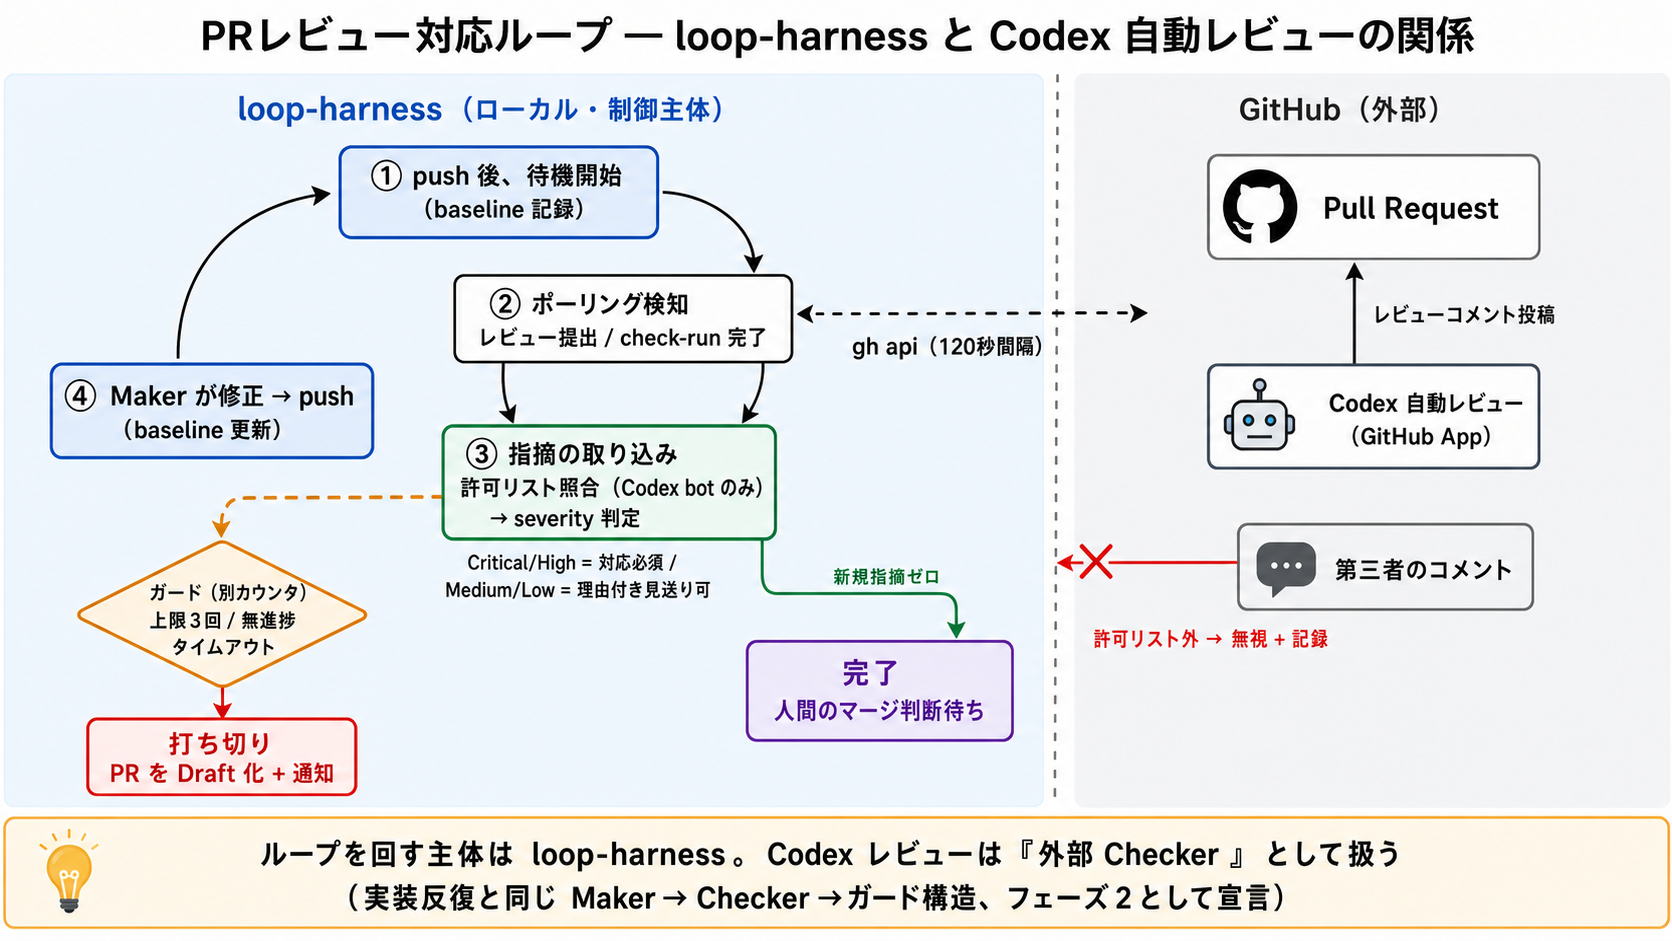
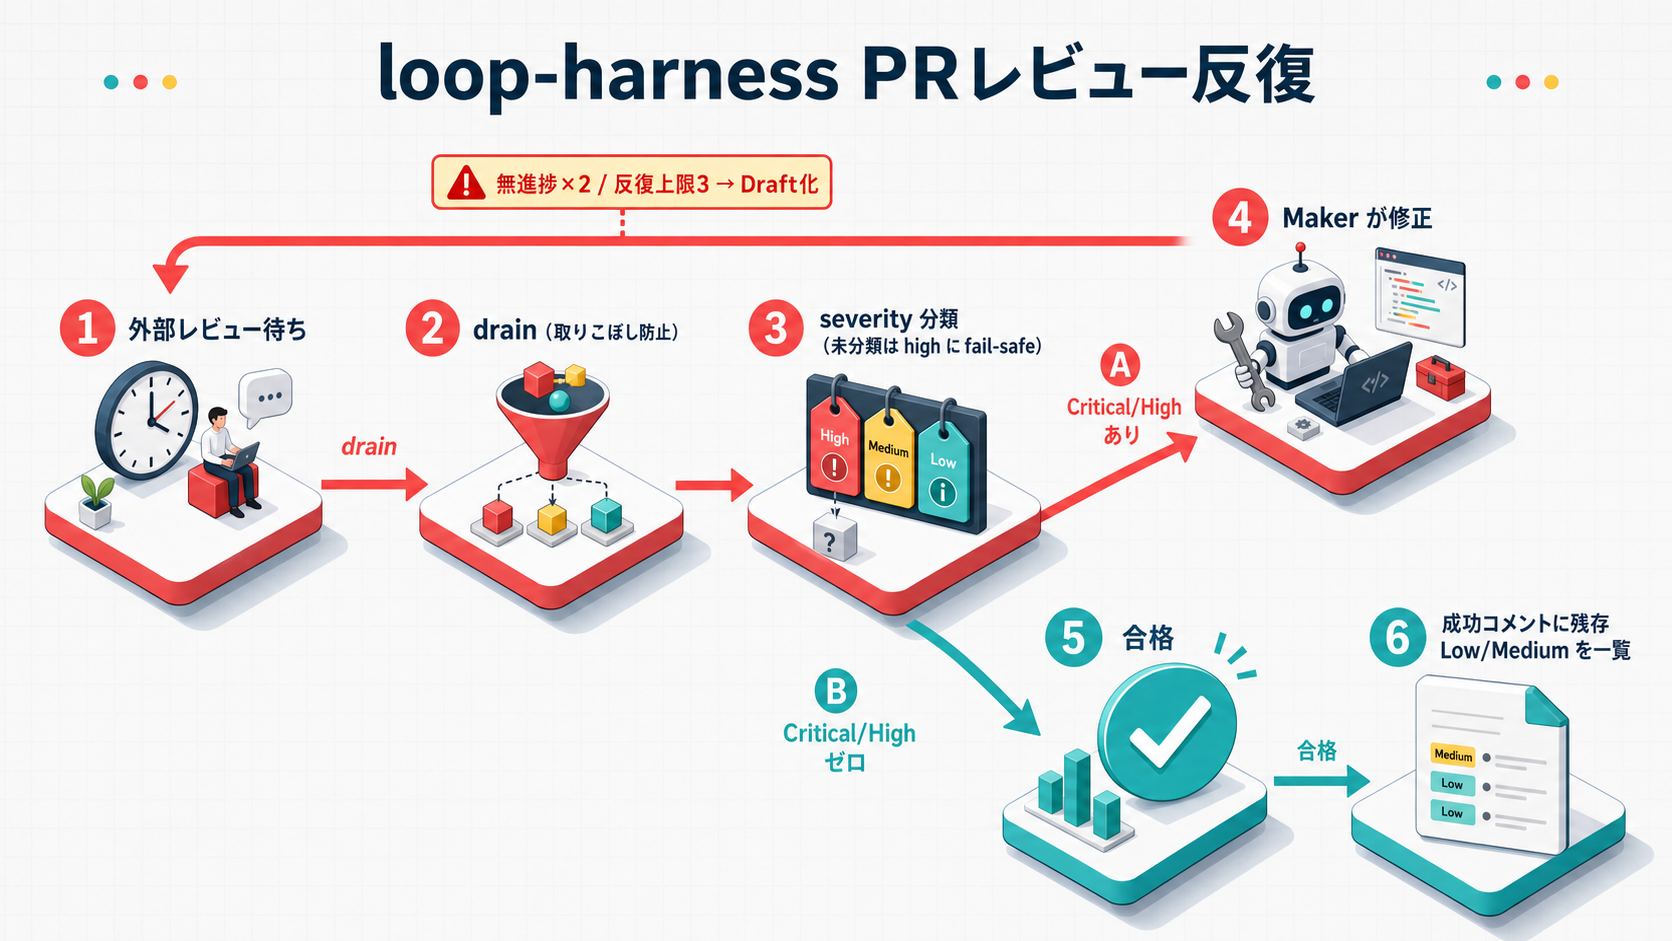
docs: loop-harness LP-1 利用者ガイドを新設し図解 4 枚を刷新 (#232)
* docs(loop-harness): LP-1 利用者ガイドを新設し図解 4 枚を刷新

- docs/guides/loop-harness.md を新設（LP-1 中心の利用者向けガイド、
  Mermaid 図解 5 点。コマンド例・設定キーは実装と突合済み）
- docs/assets/loop-harness/*.png 4 枚を最新仕様（PR #228/#229/#230 反映）で
  刷新。共通スタイルプロンプト（Infographic/Isometric/Colorful）を新設し
  docs/assets/diagram-style-prompt.md として管理
- packages/loop-harness/README.md の陳腐化修正（pgrep → is-alive、
  ガイド導線、LP-2 experimental 注記）
- CHANGELOG（Unreleased/Added）更新

* docs(loop-harness): 利用者ガイドに図解 PNG を埋め込み

- §2 の図①〜④に docs/assets/loop-harness/*.png を主ビジュアルとして参照
- Mermaid ソースは正確な定義として <details> に格納（⑤停止判定は PNG なしのため Mermaid のまま）

---------

Changed region(s): [[0.0, 0.0, 1.0, 1.0], [0.0622, 0.0616, 0.1244, 0.0925], [0.6531, 0.3082, 0.6842, 0.339]]

diff --git a/docs/guides/loop-harness.md b/docs/guides/loop-harness.md
@@ -1,0 +1,245 @@
+---
+codd:
+  node_id: "design:loop-harness-guide"
+  kind: design
+  status: active
+  depends_on:
+    - id: "design:loop-harness"
+      relation: references
+    - id: "design:loop-harness-core"
+      relation: references
+    - id: "design:loop-harness-cli"
+      relation: references
+    - id: "design:loop-harness-pr-review"
+      relation: references
+  owner: ai-orchestra
+---
+
+# loop-harness 利用者ガイド
+
+**更新日**: 2026-07-15
+`/loop-issue` スキル（LP-1）で GitHub Issue を自動消化するための利用者向けガイド。内部実装の詳細は設計書を参照する。
+
+---
+
+## 1. これは何か
+
+`loop-harness` は、GitHub Issue 番号を渡すと、実装 → 機械チェック（テスト/lint）→ LLM レビュー → 修正反復 → PR 作成 → 外部 bot レビュー対応までを自動で回す仕組みである。
+
+- 実装するのは Maker（agent-routing で選定されたサブエージェント）
+- 合否を判定するのは Checker（機械検証 + LLM レビューの二層。Critical/High がゼロになるまで反復）
+- PR 作成後は外部レビュー bot（Codex 等）の指摘を検知し、Critical/High があれば Maker が対応し再レビューを待つ
+- **人間の関与はマージ判断のみ**。ループ自身は auto-merge を行わない
+
+このガイドで扱うのは LP-1（`/loop-issue` スキル、セッション内伴走型）。常駐無人運用の LP-2 は 6 節で触れる制約付きの experimental 機能であり、通常はこのガイドの対象外。
+
+---
+
+## 2. ループの仕組み（図解）
+
+### ① 全体フロー
+
+![loop-harness 全体フロー](../assets/loop-harness/loop-harness-overview-ja.png)
+
+<details>
+<summary>Mermaid ソース（正確なフロー定義）</summary>
+
+```mermaid
+flowchart TD
+    A[Issue] --> B["start"]
+    B --> C1
+
+    subgraph C[implementation フェーズ]
+        C1[Maker が実装] --> C2["Checker: 機械検証 + LLM レビュー"]
+        C2 -- 不合格・反復継続 --> C1
+    end
+
+    C -- "合格（critical=0 かつ high=0）" --> D[PR 作成]
+    D --> E1
+
+    subgraph E[pr_review_response フェーズ]
+        E1[外部レビュー待ち] --> E2[指摘を severity 分類]
+        E2 -- critical/high あり --> E3[Maker が修正] --> E1
+    end
+
+    E -- critical/high ゼロで合格 --> F["exit_success（PASSED コメント）"]
+    C -- 無進捗/反復上限 --> G["exit_failure（Draft 化）"]
+    E -- 無進捗/反復上限 --> G
+```
+
+</details>
+
+`implementation` フェーズは機械検証（`pytest`/`ruff` 等）と LLM レビュー（`code-reviewer` + パスパターンで追加選定、最大 2 名）の両方が Critical=0・High=0 になるまで、Maker と Checker を交互に反復する。合格すると PR を作成し `pr_review_response` フェーズへ進む。
+
+### ② 状態機械
+
+![loop-harness 状態機械](../assets/loop-harness/loop-harness-state-machine-ja.png)
+
+<details>
+<summary>Mermaid ソース（正確な遷移定義）</summary>
+
+```mermaid
+stateDiagram-v2
+    [*] --> pending: start --issue N
+    pending --> running: run_maker 完了 → complete
+    running --> running: 反復（無進捗/上限未達）
+    running --> waiting_external: advance_phase（PR 作成）
+    waiting_external --> running: push_required（Maker が指摘対応）
+    waiting_external --> passed: critical/high ゼロで合格
+    running --> failed: 無進捗2回 または max_iterations(3) 到達
+    waiting_external --> failed: 同上
+    running --> stopped: 安全停止（push_guard_violation 等）
+    waiting_external --> stopped: 安全停止 + external_reviewer_unavailable
+    failed --> running: resume --reset-counters
+    stopped --> running: resume --reset-counters
+    passed --> [*]
+
+    note right of pending
+      pending/running/waiting_external から
+      attach でも復旧可能（lease 再取得のみ。
+      状態そのものは変化しない）
+    end note
+```
+
+</details>
+
+`status` は `pending`（初回 Maker 未実行）/ `running`（反復中）/ `waiting_external`（外部レビュー待ち）/ `passed`（合格）/ `failed`（ガード到達）/ `stopped`（安全停止）の 6 種類。`attach` はクラッシュ・セッション断絶後に別の呼び出し元が lease を再取得して続行する経路（`pending` も対象。以前は `running`/`waiting_external` のみだったが復旧範囲が広がった）、`resume --reset-counters` は `failed`/`stopped` から人間判断でガードカウンタをリセットして再挑戦する経路。両者は対象状態が排他的で混同しない。
+
+### ③ two-phase プロトコル
+
+![loop-harness two-phase プロトコル](../assets/loop-harness/loop-harness-two-phase-sequence-ja.png)
+
+<details>
+<summary>Mermaid ソース（正確なシーケンス定義）</summary>
+
+```mermaid
+sequenceDiagram
+    participant O as オーケストレーター
+    participant L as loop_step (Python)
+    participant T as Task (Maker/Checker)
+
+    O->>L: propose --lease-token
+    L-->>O: action, action_id, state_version
+    O->>T: Task(subagent_type=..., ...)
+    T-->>O: 結果要約
+    O->>L: complete --action-id --state-version --result --lease-token
+    L-->>O: ok, next: call propose again
+    Note over O,L: 長時間の反復中は heartbeat で lease を延命する
+```
+
+</details>
+
+`loop_step` は「次に何をすべきか」を決定するだけで、実行そのもの（Task 起動）は常にオーケストレーター側が行う分業になっている。これにより agent-routing / audit 等の既存 hook 基盤をそのまま素通りできる。
+
+### ④ PR レビュー反復
+
+![loop-harness PR レビュー反復](../assets/loop-harness/loop-harness-pr-review-loop-ja.png)
+
+<details>
+<summary>Mermaid ソース（正確なフロー定義）</summary>
+
+```mermaid
+flowchart TD
+    A[wait_external_review] --> B["pre-rebaseline drain<br/>直前反復中の指摘の取りこぼし防止"]
+    B --> C["severity 分類<br/>未分類は fail-safe で high"]
+    C -->|critical/high が1件以上| D["Maker へ差し戻し<br/>修正反復"]
+    D --> A
+    C -->|"critical/high ゼロ（medium/low のみ or 指摘なし）"| E[合格]
+    E --> F["成功コメントに<br/>non_blocking_open（残存 medium/low）を列挙"]
+```
+
+</details>
+
+外部レビューの合格基準は「unresolved な Critical/High がゼロ」であること。Low/Medium は非ブロッキングであり、対応しなくても合格を妨げない（残存分は成功コメントに一覧として残る）。無進捗判定も Critical/High（blocking）のシグネチャ集合が前回反復と完全一致した場合のみ発生する。
+
+### ⑤ 停止判定
+
+```mermaid
+flowchart TD
+    A[Checker 結果] --> B{"① 合格判定<br/>critical=0 かつ high=0"}
+    B -- 合格 --> C["成功出口<br/>advance_phase / exit_success"]
+    B -- 不合格 --> D{"② 無進捗判定<br/>blocking シグネチャ集合が前回と完全一致"}
+    D -- 無進捗 --> E["exit_failure<br/>Draft 化"]
+    D -- 進捗あり --> F{"③ 反復上限判定<br/>max_iterations(既定3) 到達"}
+    F -- 到達 --> E
+    F -- 未到達 --> G[次の run_maker へ継続]
+```
+
+この 3 段階評価とは別に、push 直前のブランチ検証・repo-identity 照合、または他ホストの生存 lease 検知に違反した場合は `exit_failure` ではなく **安全停止（`stopped`）** に遷移する。安全停止ではリポジトリへの書き込み（push/PR 作成・更新）を一切行わず、人間への引き継ぎに徹する。外部レビュアーが利用不可（CodeRabbit のレートリミット等で代替経路も無い場合）と判定されたときも同様に安全停止する。
+
+---
+
+## 3. 前提セットアップ
+
+```bash
+orchex install loop-harness --project /path/to/project
+```
+
+`loop-harness` は `audit` / `quality-gates` / `git-workflow` / `agent-routing` に依存する（未導入なら合わせて導入される）。
+
+**`pr_review.reviewer_allowlist` の設定は必須**。未設定（またはキー自体が無い、空リスト）の場合、`wait_external_review` の直前で fail-closed に停止する。導入プロジェクトの `.claude/config/loop-harness/loop-harness.local.yaml` に、実際に使う外部レビュー bot を明記する。
+
+```yaml
+# .claude/config/loop-harness/loop-harness.local.yaml
+pr_review:
+  reviewer_allowlist:
+    - app_slug: "chatgpt-codex-connector" # GitHub App slug（判明していれば最優先）
+      login: "chatgpt-codex-connector[bot]" # フォールバック照合用
+      type: "Bot"
+      author_association: ["NONE"]
+  checkrun_allowlist: [] # 任意。check-run 経由のフォールバック検知を使う場合のみ
+```
+
+あわせて、対象リポジトリに外部レビュー bot（Codex の GitHub 連携等）が実際に設定済みであることを確認する。bot が動いていない状態で `/loop-issue` を実行すると、`pr_review_response` フェーズが `pr_review.timeout_seconds`（既定 3600 秒）待った末に無進捗として扱われる。
+
+---
+
+## 4. 使い方
+
+```text
+/loop-issue 42                         # 新規 Issue を開始
+/loop-issue --attach <loop_id>         # クラッシュ・セッション断絶後に再接続
+/loop-issue --resume <loop_id>         # failed / stopped から人間判断で再挑戦
+```
+
+起動後は 2 節の図解どおり、実装 → 機械検証 + LLM レビュー → PR 作成 → 外部レビュー対応まで自動で進行する。進行中、オーケストレーターは Maker/Checker の生出力をメインコンテキストへ転載せず、要約と state/journal 参照だけをやり取りする。
+
+**人間の関与ポイントは PR のマージ判断のみ**。ループは auto-merge を付与しないため、`exit_success`（PASSED コメント）到達後に人間が内容を確認してマージする。Critical/High の指摘は無人反復の中で必ず対応必須（見送り不可）として扱われるため、これらを人間が代わりに見送る運用は設計上想定されていない。
+
+---
+
+## 5. 止まったときの復旧
+
+現在の状態は `loop_status.py` で確認できる。
+
+```bash
+python3 packages/loop-harness/scripts/loop_status.py list [--status <phase>] [--json]
+python3 packages/loop-harness/scripts/loop_status.py show --loop-id <id> [--journal-lines N] [--full-journal]
+```
+
+| 状況 | 復旧方法 |
+| --- | --- |
+| セッションがクラッシュ・断絶した（`pending`/`running`/`waiting_external` のまま） | `/loop-issue --attach <loop_id>`。`pending` の段階での断絶でも復旧できる |
+| ガード到達で正規に `failed`／安全停止で `stopped` になった | 原因を確認・解消したうえで `/loop-issue --resume <loop_id>`（ガードカウンタをリセットして再挑戦） |
+| 完了済みループの整理 | `python3 packages/loop-harness/scripts/loop_status.py purge [--force] [--dry-run] [--yes]`。`running`/`waiting_external` は常に保護され、既定では `passed`/`failed` かつ 30 日経過分のみが対象 |
+
+`exit_failure` で終了した場合、Draft 化された PR と失敗理由を記載した Issue コメントがそのまま残る。内容を確認したうえで手動対応するか、原因を解消してから `resume` する。
+
+---
+
+## 6. 既知の制約
+
+- **LLM レビューは非決定的**。判定が割れるケースは常に安全側（High）に倒す fail-safe 設計になっている
+- **外部 bot の応答性・レートリミットに依存**する。bot が利用不可と判定されると `external_reviewer_unavailable` として安全停止し、人間に引き継がれる
+- **LP-2（常駐無人運用）は experimental**。Maker/Checker のプロセス隔離が完全ではなく（Issue #211 で対応予定）、push 多層防御は同一 OS ユーザー内の完全性までは保証しない。信頼できるリポジトリでのみ、自己責任で使用すること
+
+---
+
+## 7. さらに詳しく
+
+- [`docs/design/loop-harness.md`](../design/loop-harness.md) — 基本設計（全体アーキテクチャ・ループ定義スキーマ）
+- [`docs/design/loop-harness-core.md`](../design/loop-harness-core.md) — 状態機械・ロック等コア詳細設計
+- [`docs/design/loop-harness-cli.md`](../design/loop-harness-cli.md) — CLI（`loop_step`/`loop_driver`/`loop_scheduler`/`loop_status`）契約
+- [`docs/design/loop-harness-pr-review.md`](../design/loop-harness-pr-review.md) — PR レビュー対応 / `/loop-issue` スキル詳細設計
+- [`docs/evaluation/loop-harness.md`](../evaluation/loop-harness.md) — 評価セット
+- [`packages/loop-harness/README.md`](../../packages/loop-harness/README.md) — パッケージ構成・config キー一覧

diff --git a/docs/assets/diagram-style-prompt.md b/docs/assets/diagram-style-prompt.md
@@ -1,0 +1,68 @@
+# 図解画像 共通スタイルプロンプト
+
+**このリポジトリの図解画像（docs/assets/**）を生成・刷新する際は、必ず本プロンプトを画像生成の指示に併用すること。**
+目的は、リポジトリ内の図解スタイルの統一。
+
+## ビジュアルスタイル: Infographic / Isometric / Colorful
+
+### 配色
+
+- 背景: ライトグレー、または薄いグリッド。
+- 主文字色: #FF6B6B (Red)
+- アクセントカラー: #4ECDC4 (Teal)、#FFE66D (Yellow)、#1A535C (Dark Blue)
+- 配色はテーマの個性を伝えつつ、企業資料としての読みやすさと落ち着きを保つ
+
+### タイポグラフィ
+
+- 見出し: 丸みを帯びたサンセリフ。
+- 本文: 可読性を優先した本文書体
+- スタイル: 明確な階層構造, ラベル。
+- 数値表現: 重要な数値は比較しやすく、情報の軸として見せる
+
+### レイアウトグリッド
+
+- 構造化されたフロー, 相互接続された要素, 明確なパス
+- 余白を情報の品位と視認性を高める要素として扱う
+- 単調になりすぎないよう、整列と余白の中に穏やかなリズムを持たせる
+- 複数ページ一覧、コンタクトシート、サムネイルグリッドのような見せ方にはしない
+
+### イラストスタイル
+
+- 3Dアイソメトリック・ベクターイラストを用いた、データ視覚化へのフォーカス。
+- 等角投影グラフ, 円グラフ, フローチャートのコネクタ。
+- 質感やパターンは控えめに使い、主題を奪わない
+- 微細な人々（マイクロ・ピープル）, 浮遊するプラットフォーム, アイコン。
+- 図版はスタイルの個性を伝えつつ、主題の理解を支える役割に留める
+- 企業資料として不適切な象徴性の強い意匠は避ける
+
+### データビジュアライゼーション
+
+- 表、図、要点を秩序立てて配置する
+- 強調は必要最小限にし、読み取りの速さを優先する
+- 図表はスタイルの個性を残しながらも、要点が素早く伝わる見せ方にする
+- ラベル、見出し、数値は一目で関係が分かるように整える
+
+### 含めるスライドタイプ
+
+- タイトルスライド
+  - 上部にタイトル、周辺に小さな補助情報、中央または右側に象徴ビジュアルを置いてよい
+- 概要スライド
+  - 左に大きな要点見出し、右に要約文や補足データを置いてよい
+- 比較表スライド
+  - 上部に比較テーマ、中央に比較表、下部に短い示唆を置いてよい
+- データ整理スライド
+  - 上段に主要数値、中段にチャート、下段に要点や注記を置いてよい
+- フローまたは構造整理スライド
+  - 左右または上下の流れで関係性を整理し、接続線や矢印は最小限に抑えてよい
+- 出力時は各ページの内容に応じて上記のうち適切な1種類を選び、入力資料またはユーザーが指定した構成・枚数に沿って、必要な枚数のスライドを生成する
+
+### トーン & ボイス
+
+- 情報的
+- 遊び心
+- 明快
+- プロフェッショナル
+- モダン
+- 画面全体に節度ある存在感と洗練を持たせる
+- 主題よりもスタイルが前に出すぎないようにする
+- 目立ちすぎないが印象に残る見せ方を優先する

diff --git a/CHANGELOG.md b/CHANGELOG.md
@@ -18,6 +18,7 @@ The format is based on [Keep a Changelog](https://keepachangelog.com/en/1.1.0/).
 
 ### Added
 
+- **`loop-harness`: 利用者ガイド（図解つき）を追加**: `docs/guides/loop-harness.md` に `/loop-issue` の使い方・ループの仕組み（全体フロー・状態機械・PR レビュー反復・停止判定の Mermaid 図解）をまとめた。`packages/loop-harness/README.md` から導線を追加し、cron セットアップの記述を `is-alive`（pidfile/flock）方式に更新した。
 - **`meta-harness`: `target=skill:<slug>` の探索・評価に対応**: skill ごとの scenario suite、target 別 frontier、composition closure に限定した安全な overlay、`handoff` / `issue-create` の train・holdout 評価を追加。skill-evolution の trigger 出力から `orchex meta propose` へ疎結合で誘導する。
 - **`git-workflow`: `/review-respond` スキルを追加**: カレントブランチの PR に付いた bot レビュー指摘（CodeRabbit/Codex 等）を `pr_review_threads.py` で取得し、分類・修正・push・返信・スレッド解決までを単発実行で自動対応する。
 
